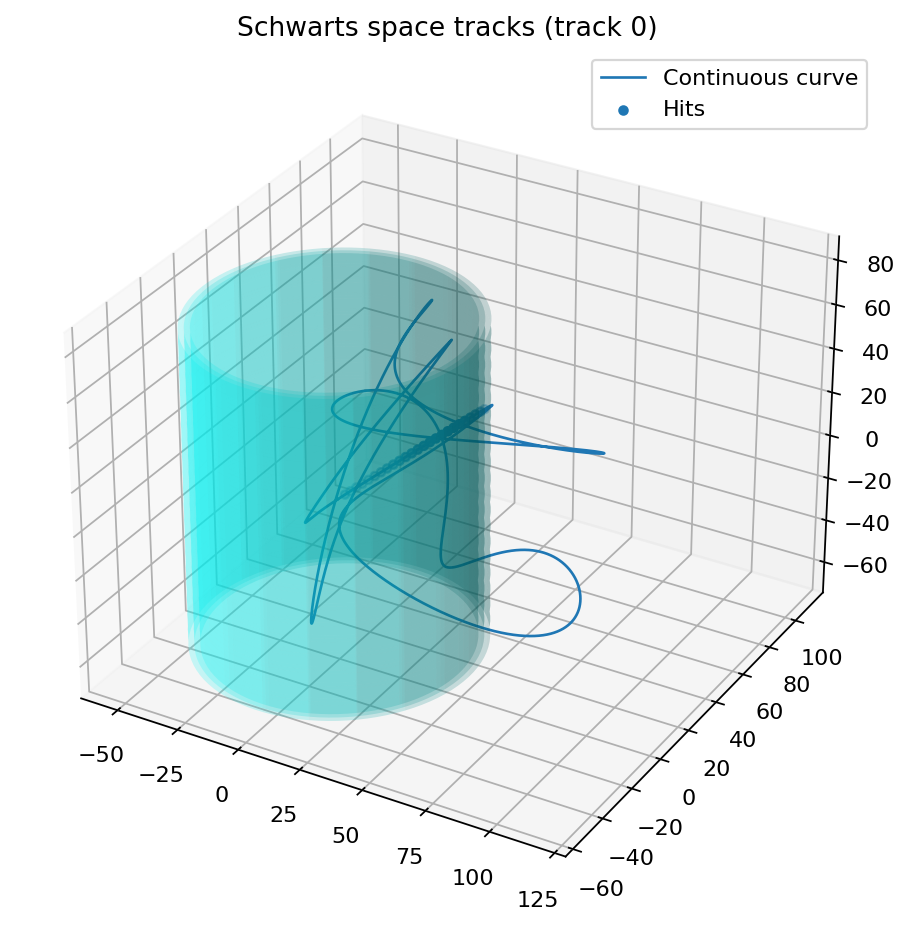
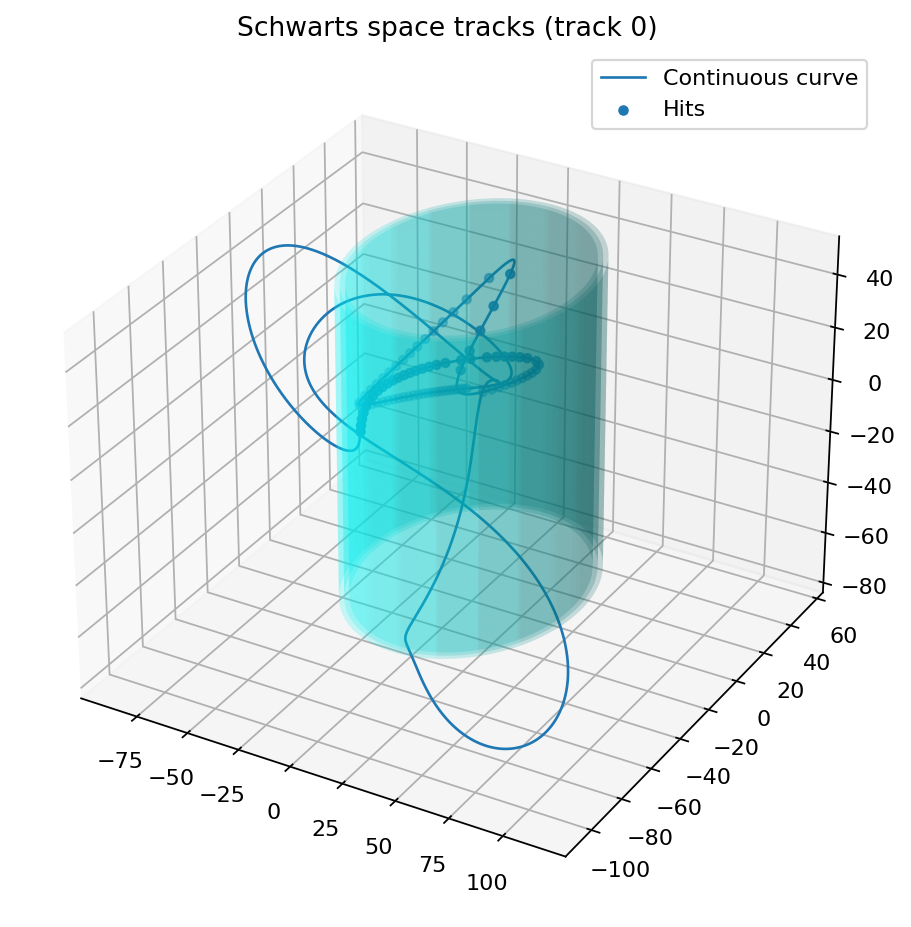
track eqn update

diff --git a/src/fit_tracks.py b/src/fit_tracks.py
@@ -150,56 +150,6 @@ def helix_xyz_phi(phi, p):
     z = z0 + a * (phi - phi_ref)
     return x, y, z
 
-def fit_standard_model_helix_from_phi(phi, x, y, z, *, sig_x=None, sig_y=None, sig_z=None):
-    phi = np.asarray(phi).ravel()
-    x = np.asarray(x).ravel()
-    y = np.asarray(y).ravel()
-    z = np.asarray(z).ravel()
-    n = len(phi)
-
-    # initial guesses (robust)
-    xc0, yc0 = np.mean(x), np.mean(y)
-    R0 = np.median(np.sqrt((x - xc0)**2 + (y - yc0)**2))
-    z00 = np.mean(z)
-    a0 = (z[-1] - z[0]) / (phi[-1] - phi[0] + 1e-12)
-    phi_ref0 = phi[0]
-    p0 = np.array([xc0, yc0, R0, z00, a0, phi_ref0], dtype=float)
-
-    BIG = 1e6
-    def resid(p):
-        xp, yp, zp = helix_xyz_phi(phi, p)
-        rx = xp - x
-        ry = yp - y
-        rz = zp - z
-        if sig_x is not None: rx = rx / (np.asarray(sig_x).ravel() + 1e-12)
-        if sig_y is not None: ry = ry / (np.asarray(sig_y).ravel() + 1e-12)
-        if sig_z is not None: rz = rz / (np.asarray(sig_z).ravel() + 1e-12)
-        r = np.concatenate([rx, ry, rz])
-        if not np.all(np.isfinite(r)): return np.full(3*n, BIG, dtype=float)
-        return r
-
-    # Use linear loss so residuals correspond to chi2
-    res = least_squares(resid, p0, loss="linear", xtol=1e-10, ftol=1e-10)
-    p_opt = res.x
-
-    r = resid(p_opt)
-    chi2 = float(np.sum(r**2))
-    ddof = len(p_opt)
-    dof = max(len(r) - ddof, 1)
-    chi2_red = chi2 / dof
-
-    # simple residual diagnostics
-    xp, yp, zp = helix_xyz_phi(phi, p_opt)
-    res_xyz = np.concatenate([xp - x, yp - y, zp - z])
-    diagnostics = {
-        "chi2": chi2, "chi2_red": chi2_red,
-        "res_mean": np.mean(res_xyz), "res_std": np.std(res_xyz),
-        "p_opt": p_opt, "success": res.success, "message": res.message
-    }
-    return p_opt, diagnostics
-# -------------------------------------------------------------------
-
-
 def helix_xyz(s, p):
     """
     Simple 3D helix parametrized by s:
@@ -214,78 +164,6 @@ def helix_xyz(s, p):
     y = yc + R * np.sin(th)
     z = z0 + k * s
     return x, y, z
-
-def fit_standard_model_helix(s, x, y, z, *, sig_x=None, sig_y=None, sig_z=None):
-    """
-    Fit helix to all coords at once using least_squares.
-    Returns: (p_opt, metrics_xyz)
-      metrics_xyz: dict with chi2, chi2_red, plus per-dim R2/MSE/MAE if you want.
-    """
-
-    s = np.asarray(s).ravel()
-    x = np.asarray(x).ravel()
-    y = np.asarray(y).ravel()
-    z = np.asarray(z).ravel()
-    n = len(s)
-
-    # --- initial guess (cheap + robust) ---
-    xc0, yc0 = np.mean(x), np.mean(y)
-    r0 = np.sqrt((x - xc0)**2 + (y - yc0)**2)
-    R0 = np.median(r0) if np.isfinite(np.median(r0)) else 1.0
-    omega0 = 2*np.pi / (s.max() - s.min() + 1e-9)   # ~one turn across the s-range
-    phi0 = np.arctan2(np.mean(y - yc0), np.mean(x - xc0))
-    z00 = np.mean(z)
-    k0 = (z[-1] - z[0]) / (s[-1] - s[0] + 1e-9)
-
-    p0 = np.array([xc0, yc0, R0, omega0, phi0, z00, k0], dtype=float)
-
-    BIG = 1e6
-
-    def resid(p):
-        with np.errstate(all="ignore"):
-            xp, yp, zp = helix_xyz(s, p)
-
-        if (not np.all(np.isfinite(xp))) or (not np.all(np.isfinite(yp))) or (not np.all(np.isfinite(zp))):
-            return np.full(3*n, BIG, dtype=float)
-
-        rx = xp - x
-        ry = yp - y
-        rz = zp - z
-
-        if sig_x is not None:
-            rx = rx / np.asarray(sig_x).ravel()
-        if sig_y is not None:
-            ry = ry / np.asarray(sig_y).ravel()
-        if sig_z is not None:
-            rz = rz / np.asarray(sig_z).ravel()
-
-        r = np.concatenate([rx, ry, rz])
-        if not np.all(np.isfinite(r)):
-            return np.full(3*n, BIG, dtype=float)
-        return r
-
-    res = least_squares(resid, p0, loss="soft_l1")
-    p_opt = res.x
-
-    # compute chi2 from weighted residuals (or unweighted if no sigmas)
-    r = resid(p_opt)
-    chi2 = np.sum(r**2)
-    ddof = len(p_opt)
-    dof = max(len(r) - ddof, 1)
-    chi2_red = chi2 / dof
-
-    # optional: per-dim R2 for sanity / label tie-breaks
-    xp, yp, zp = helix_xyz(s, p_opt)
-    mx = regression_metrics(x, xp, sigma=sig_x, ddof=ddof if sig_x is not None else 0)
-    my = regression_metrics(y, yp, sigma=sig_y, ddof=ddof if sig_y is not None else 0)
-    mz = regression_metrics(z, zp, sigma=sig_z, ddof=ddof if sig_z is not None else 0)
-
-    metrics_xyz = {
-        "chi2": chi2,
-        "chi2_red": chi2_red,
-        "mx": mx, "my": my, "mz": mz,
-    }
-    return p_opt, metrics_xyz
 
 def r2_score_1d(y_true, y_pred):
     """
@@ -346,28 +224,31 @@ def load_sigmas_for_event(track_folder: str, event_num: int):
     return sig_x, sig_y, sig_z, n_hits
 
 def sympy_expr_to_pysr_guess(expr, *, pysr_var="x0"):
-    """
-    Convert a SymPy expression (with numeric constants) into a PySR guess string.
-    Assumes your independent variable is the only free symbol in expr.
-    """
     expr = sp.sympify(expr)
-
     free = list(expr.free_symbols)
     if len(free) != 1:
-        raise ValueError(f"Expected 1 free symbol in expr for PySR guess; got {free}")
-
-    # rename that symbol to x0 so PySR understands it
+        raise ValueError(f"Expected 1 free symbol; got {free}")
     expr = expr.xreplace({free[0]: sp.Symbol(pysr_var)})
 
     s = sp.sstr(expr).replace("**", "^")
-    # --- avoid unary minus at the start (PySR parser can choke if '-' not in unary ops) ---
-    s_strip = s.lstrip()
-    if s_strip.startswith("-"):
-        # turn "-(...)" or "-x0*..." into "0-(...)" which uses binary '-'
+
+    # 1) leading unary minus -> binary minus
+    if s.lstrip().startswith("-"):
         s = "0" + s
 
-    # also normalize "+ -something" into "- something" (binary minus)
+    # 2) "+ -something" -> "- something" (binary minus)
     s = s.replace("+ -", "- ")
+
+    # 3) "(-something" -> "(0-something"  (unary minus inside parentheses)
+    s = s.replace("(-", "(0-")
+
+    # 4) "sin(-x0)" or ", -x0" -> "sin(0-x0)" / ", 0-x0"
+    s = s.replace(",-", ",0-").replace(", -", ", 0-")
+
+    # 5) negative exponents: "x0^-1" or "x0^(-1)" -> "x0^(0-1)"
+    s = re.sub(r"\^\-(\d+(\.\d+)?)", r"^(0-\1)", s)
+    s = s.replace("^(-", "^(0-")
+
     return s
 
 def _chi2_red(y, yhat, sigma, k_params=0):
@@ -430,10 +311,12 @@ def fit_until_both_conditions(
         total_iters += step
 
         # Predictions
-        yhat = model.predict(s)
+        yhat = np.asarray(model.predict(s))
+        if np.iscomplexobj(yhat):
+            yhat = yhat.real.astype(float)
 
-        # R² (unweighted unless you implement weighted R²)
-        R2 = model.score(s, y)
+        # don't use model.score (it will choke on complex); compute R2 ourselves
+        R2 = r2_score_1d(y, yhat)
         if R2 > best_R2:
             best_R2 = R2
             print(f"New best R2 = {best_R2:.3f}")
@@ -746,20 +629,21 @@ if __name__ == '__main__':
     create_dataset_only = False
     TEMPLATE_PATH = "track_templates.pkl"
     printTemplatesOnly = False
-    templates_to_delete = {}
+    templates_to_delete = {}#{"x_templates": set(range(18)), "y_templates": set(range(14)), "z_templates": set(range(13))}
     ADD_FUNC_TO_TEMPLATES = create_dataset_only and False
     R2_THRESHOLD = 0.997
-    RunPySR = False   # Whether to enable (True) or disable (False) PySR discovery
-    MaxPySRIters = 100
+    RunPySR = True   # Whether to enable (True) or disable (False) PySR discovery
+    MaxPySRIters = 200
     num_tracks = 5
     loaded = {}
     x_templates, y_templates, z_templates = [], [], []
     
-    track_dataset_idx = 0
+    track_dataset_idx = 3
     out_html = [
         "v20260122_163839__train10_test10__layers25_len320p0__r3p1-53p0__fd25-25__func3-3__noiseXY0p01_Z0p01.html",
         "v1_noiseless_69000.html",
-        "v20260202_142140__train10_test10__layers25_len320p0__r3p1-53p0__fd25-25__func3-3__noiseXY0p01_Z0p01__standardModel.html"
+        "v20260202_142140__train10_test10__layers25_len320p0__r3p1-53p0__fd25-25__func3-3__noiseXY0p01_Z0p01__standardModel.html",
+        "v20260305_002410__train5_test5__layers25_len320p0__r3p1-53p0__fd25-25__func3-3__noiseXY0p01_Z0p01.html"
     ]
     track_folder = [f"../tracks_for_ed/{i[:-5]}" for i in out_html]
     out_html = out_html[track_dataset_idx]
@@ -767,7 +651,8 @@ if __name__ == '__main__':
     dataset_labels = [
         "v20260122_163839 train/test (noise XY=0.01, Z=0.01)",
         "v1_noiseless_69000 (no sigma columns)",
-        "v20260202_142140 train/test (noise XY=0.01, Z=0.01) Standard Model"
+        "v20260202_142140 train/test (noise XY=0.01, Z=0.01) Standard Model",
+        "v20260305_002410 train/test (noise XY=0.01, Z=0.01)"
     ]
     dataset_label = dataset_labels[track_dataset_idx]
     is_standard_model_dataset = ("standardModel" in out_html)
@@ -798,7 +683,7 @@ if __name__ == '__main__':
                     nparams = len(t.get("param_syms", []))
                     expr_s = sp.sstr(expr) if expr is not None else "<no expr>"
                     expr_s = (expr_s[:200] + "...") if len(expr_s) > 200 else expr_s
-                    print(f"[{i:3d}] nparams={nparams:2d}  {expr_s}")
+                    print(f"[{i:3d}] nparams ={nparams:2d}:  {expr_s}")
 
             if templates_to_delete:
                 # ---- delete selected indices + write back ----
@@ -1062,9 +947,9 @@ if __name__ == '__main__':
 
     model_kwargs = dict(
         niterations=100,
-        binary_operators=["+", "-", "*", "/", "^"],
-        unary_operators=["neg", "sin", "cos", "exp", "tanh", "sqrt", "log", "sech(x) = 1/cosh(x)"],
-        extra_sympy_mappings={"sech": lambda x: 1/sp.cosh(x)},
+        binary_operators=["+", "-", "*"],
+        unary_operators=["neg", "sin", "cos", "tanh", "sqrt", "sech"],
+        extra_sympy_mappings={"sech": lambda x: sp.sech(x)},
         maxsize=9,
         model_selection="accuracy",
         elementwise_loss="loss(x, y) = (x - y)^2",
@@ -1465,7 +1350,7 @@ if __name__ == '__main__':
         if is_standard_model_dataset and (sm_z is not None):
             axes[2].plot(s_all, z_sm, linewidth=2, linestyle="--", label=fr"SM helix: $\chi^2_\nu={chi2nu_sm:.3e}$")
         axes[2].set_ylabel("$z$")
-        axes[2].set_xlabel("hit index")
+        axes[2].set_xlabel("normalized arc length") 
         axes[2].legend(fontsize=8)
 
         plt.tight_layout()

diff --git a/src/load_tracks.py b/src/load_tracks.py
@@ -8,7 +8,15 @@ def cylindrical_to_cartesian(r, phi, z):
     y = r * np.sin(phi)
     return x, y, z
 
-def load_single_track(csv_path):
+def compute_arc_length(x, y, z):
+    dx = np.diff(x)
+    dy = np.diff(y)
+    dz = np.diff(z)
+    ds = np.sqrt(dx**2 + dy**2 + dz**2)
+    s = np.insert(np.cumsum(ds), 0, 0.0)
+    return s
+
+def load_single_track(csv_path, param="arc"):
     df = pd.read_csv(csv_path)
 
     r   = df["r"].values
@@ -16,8 +24,13 @@ def load_single_track(csv_path):
     z   = df["z"].values
 
     x, y, z = cylindrical_to_cartesian(r, phi, z)
-    s = np.arange(len(x), dtype=float)   # <-- hit index parameterization
-
+    s = None
+    if param == "index":
+        s = np.arange(len(x), dtype=float) # <-- hit index parameterization
+    else:
+        s = compute_arc_length(x, y, z)
+        if s[-1] > 0:
+            s = s / s[-1]
     # Optional sigmas
     sig_x = sig_y = sig_z = None
     if ("sigma_r" in df.columns) and ("sigma_phi" in df.columns) and ("sigma_z" in df.columns):
@@ -42,7 +55,7 @@ def load_many_tracks(folder_path, max_tracks=None, min_hits=6):
         print(f"Loading file {f}")
         try:
             # load_single_track returns (s, x, y, z, sig_x, sig_y, sig_z, meta)
-            s, x, y, z, sig_x, sig_y, sig_z = load_single_track(f)
+            s, x, y, z, sig_x, sig_y, sig_z = load_single_track(f, param="arc")
 
             if len(s) < min_hits:
                 continue  # too short → useless for SR
